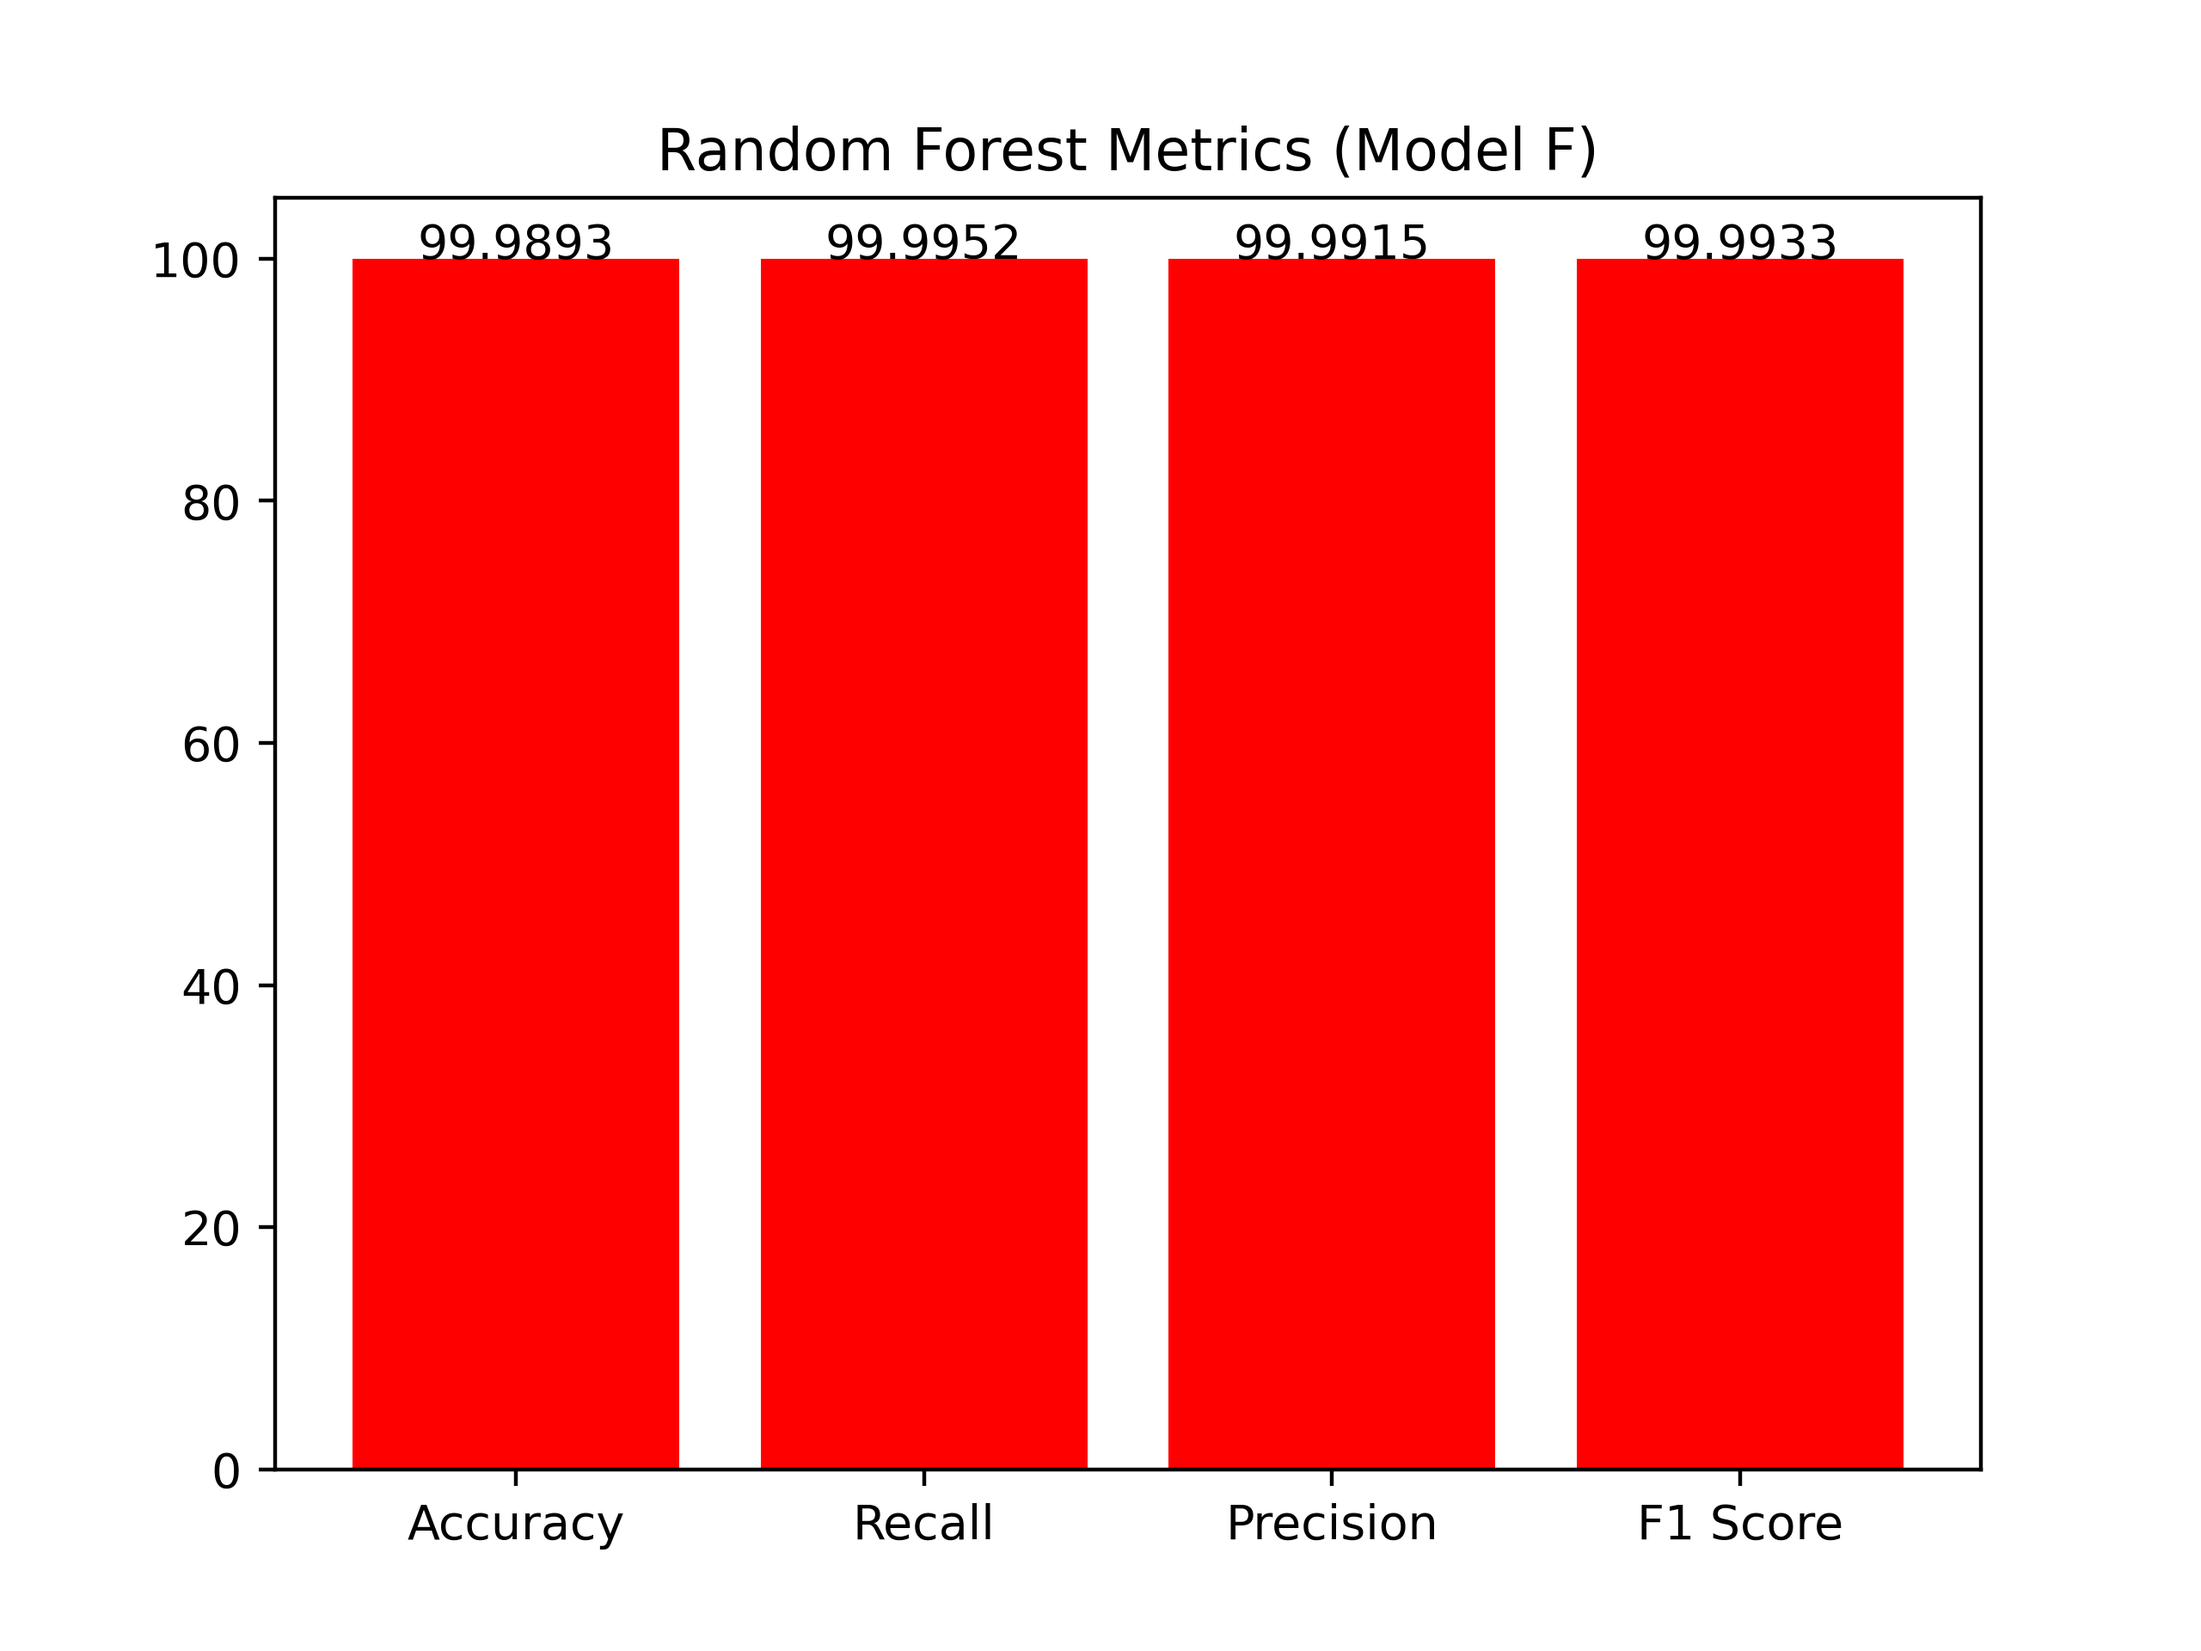
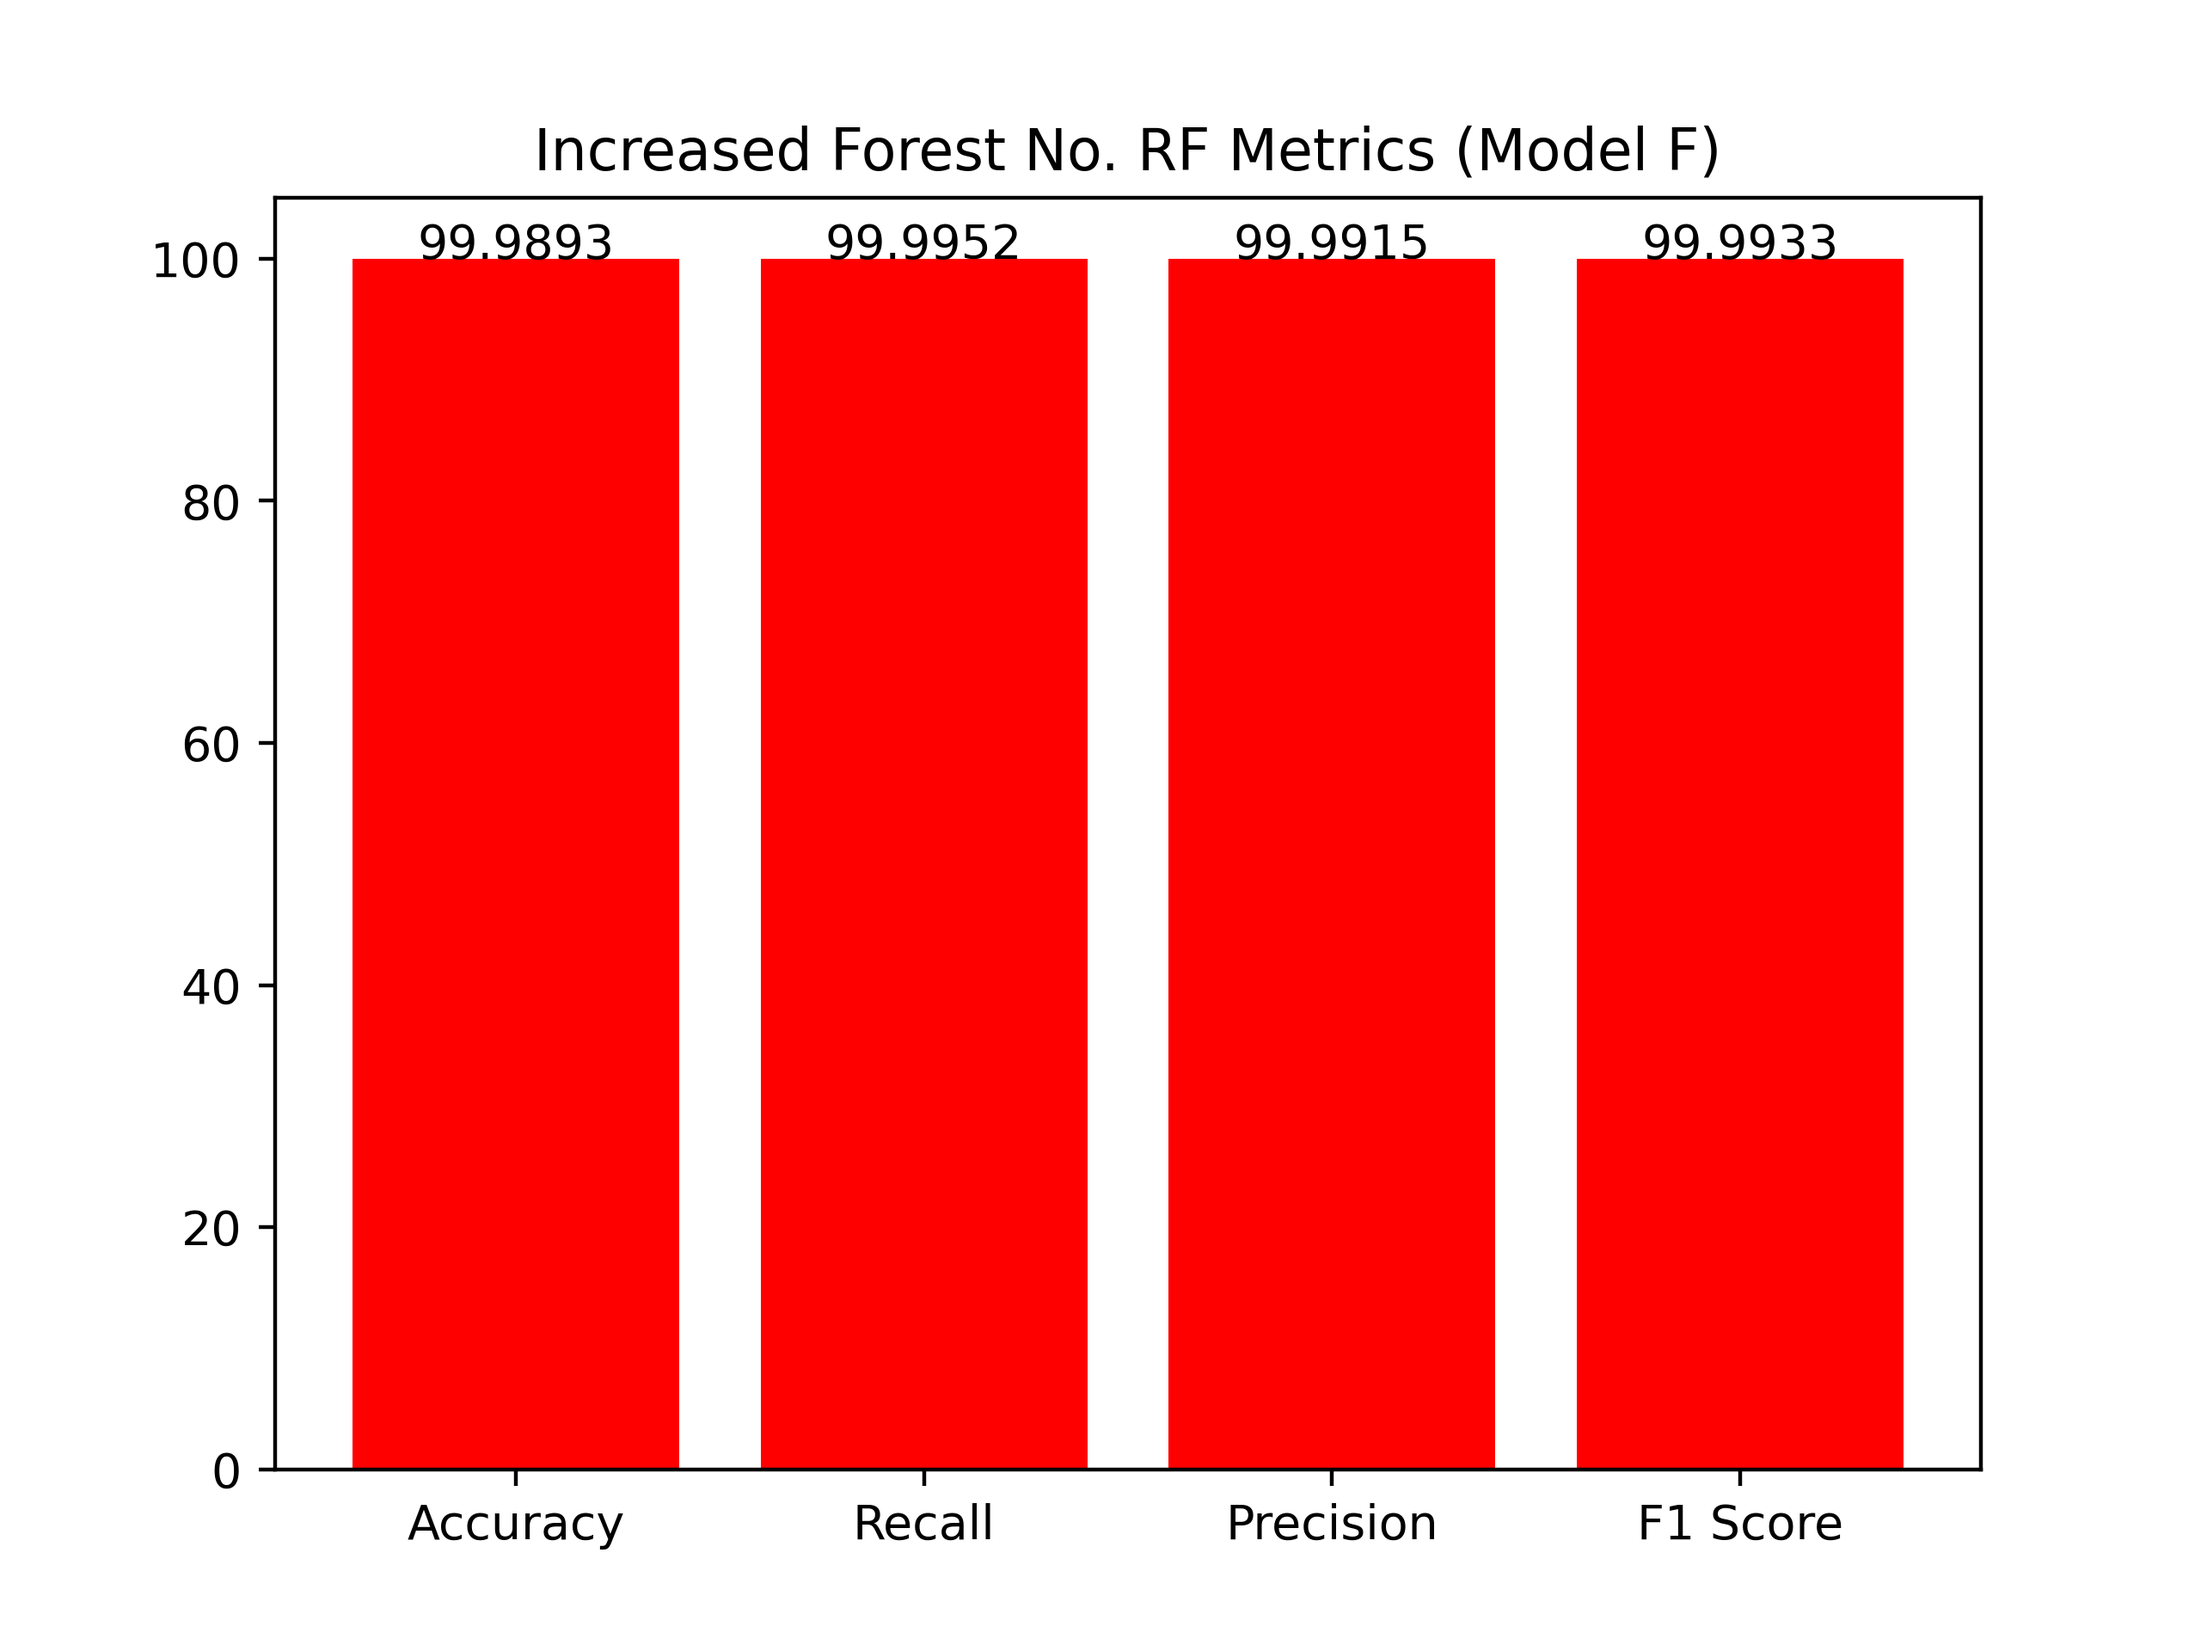
fix rf graph title

Changed region(s): [[0.25, 0.0625, 0.7812, 0.125]]

diff --git a/Metrics/Graphs/classifierGraphs.py b/Metrics/Graphs/classifierGraphs.py
@@ -87,7 +87,7 @@ values_rf = list(rf_data.values())
 x_rf = list(rf_data.keys())
 y_rf = [round (value * 100, 4) for value in values_rf]
 
-create_simple_bar_graph(x=x_rf, y=y_rf, value_labels=True, colour="Red", title="Random Forest Metrics (Model F)", save_path="Metrics/Graphs/pngs/rfMetrics.png", dpi=400)
+create_simple_bar_graph(x=x_rf, y=y_rf, value_labels=True, colour="Red", title="Increased Forest No. RF Metrics (Model F)", save_path="Metrics/Graphs/pngs/rfMetrics.png", dpi=400)
 
 # Random Forest Pre-Optimised
 
@@ -104,7 +104,7 @@ pre_optimised_values_rf = list(pre_optimised_rf_data.values())
 x_preop_rf = list(pre_optimised_rf_data.keys())
 y_preop_rf = [round (value * 100, 4) for value in pre_optimised_values_rf]
 
-create_simple_bar_graph(x=x_preop_rf, y=y_preop_rf, value_labels=True, colour="Red", title="Increased Forest No. Random Forest Metrics (Model E)", save_path="Metrics/Graphs/pngs/preOptimisedRfMetrics.png", dpi=400)
+create_simple_bar_graph(x=x_preop_rf, y=y_preop_rf, value_labels=True, colour="Red", title="Pre-Optimised Forest No. Random Forest Metrics (Model E)", save_path="Metrics/Graphs/pngs/preOptimisedRfMetrics.png", dpi=400)
 
 # DNN
 
